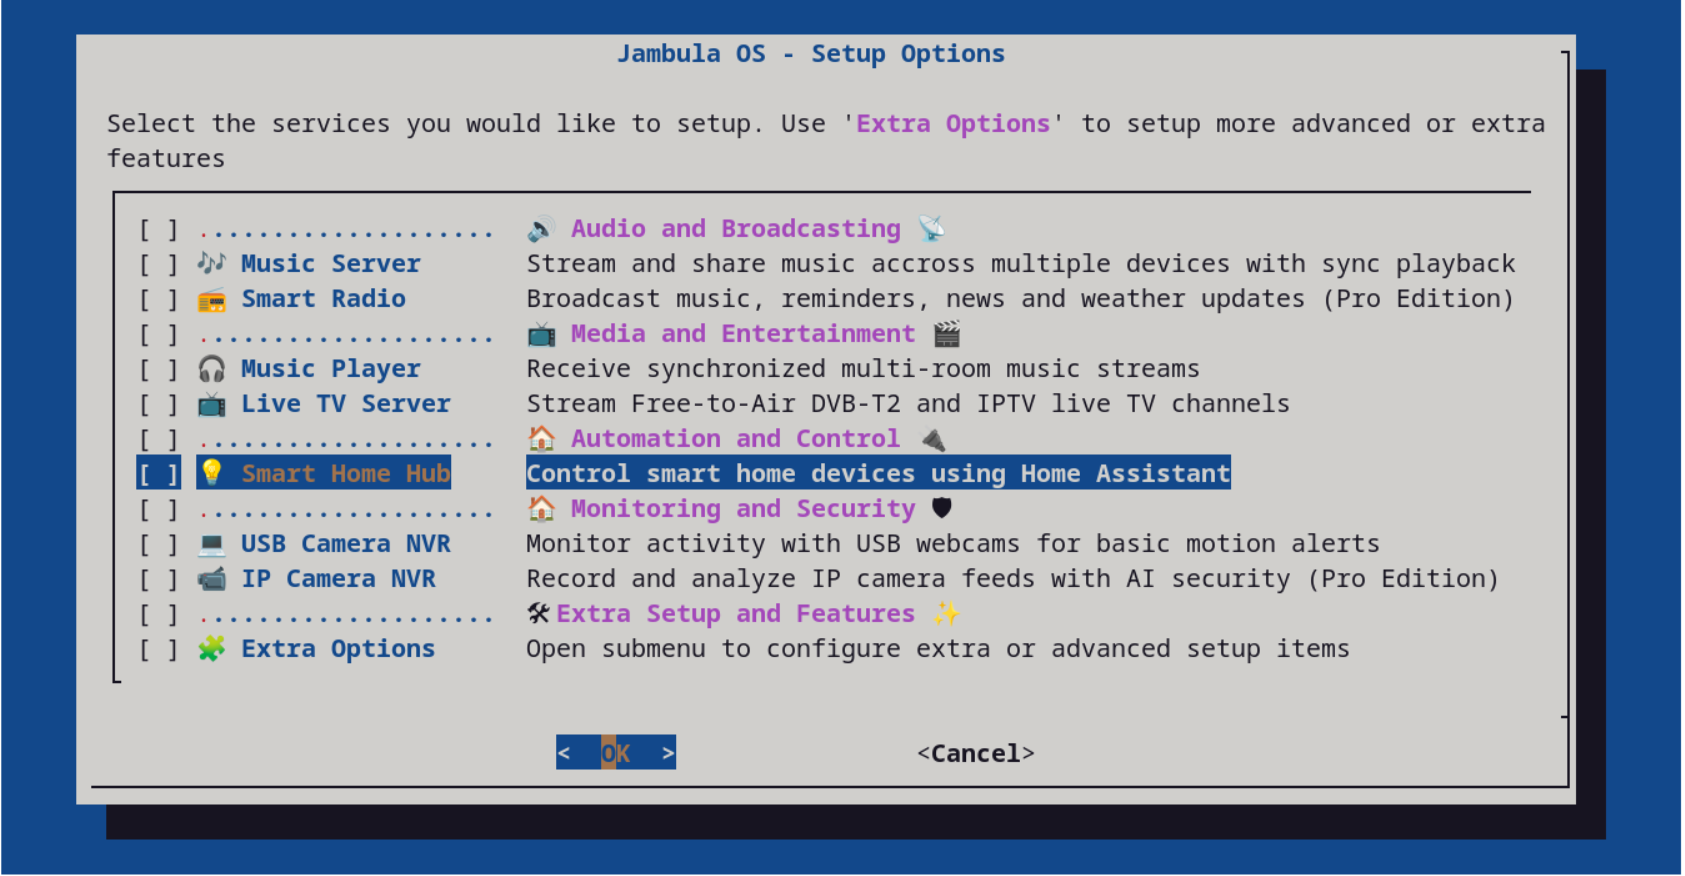
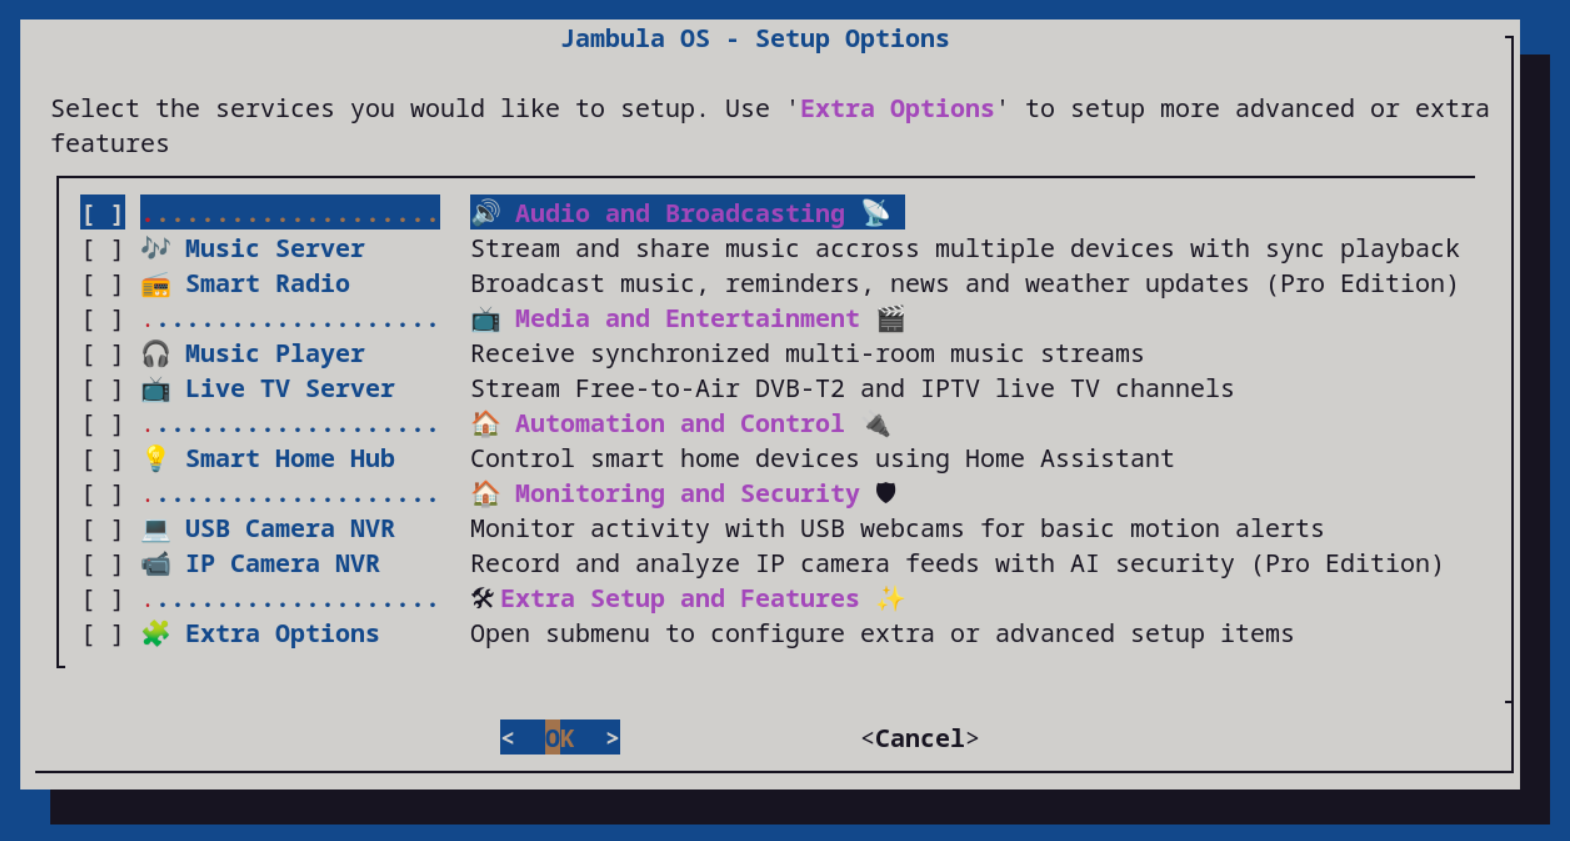
Bump version to 2026.5.1

diff --git a/CHANGELOG.md b/CHANGELOG.md
@@ -1,5 +1,28 @@
 # Changes
 
+𝟐𝟎𝟐6.5.1
+--------
+
+Added XMPP chat server (Prosody) to the additional setup options.
+
+Added Subject Alternative Name (SAN) support to the SSL certificate generation script.
+
+Replaced systemd-resolved stub with dnsmasq for local DNS and changed the default system domain suffix to .lan.
+
+Mitigated CVE-2026-31431 local privilege escalation vulnerability in the kernel.
+
+Resolved critical system hangs during shutdown and reboots following the initial first-boot setup.
+
+Forced hard reboots via kernel mode to ensure a pristine cold-boot state after setup.
+
+Resolved a psplash boot hang caused by a missing framebuffer device, and removed the duplicate xlogo boot logo.
+
+Implemented stalled playback detection and recovery for online streams in MPD.
+
+Increased the TARGET_ROOTFS_EXT2_SIZE to 7168M for default and community editions.
+
+Added Raspberry Pi 5 WiFi firmware symlinks to resolve boot errors.
+
 
 𝟐𝟎𝟐6.5.𝟎
 --------

diff --git a/README.md b/README.md
@@ -38,7 +38,7 @@ You will also need a Raspberry Pi 5 along with all required boot accessories, in
 
    cd /tmp
 
-   7za e jambulaOS-202605-071430-img.7z
+   7za e jambulaOS-202605-211547-img.7z
 
 3. Burn the resulting image i.e. sdcard.img to your SD card using a tool such as dd
 
